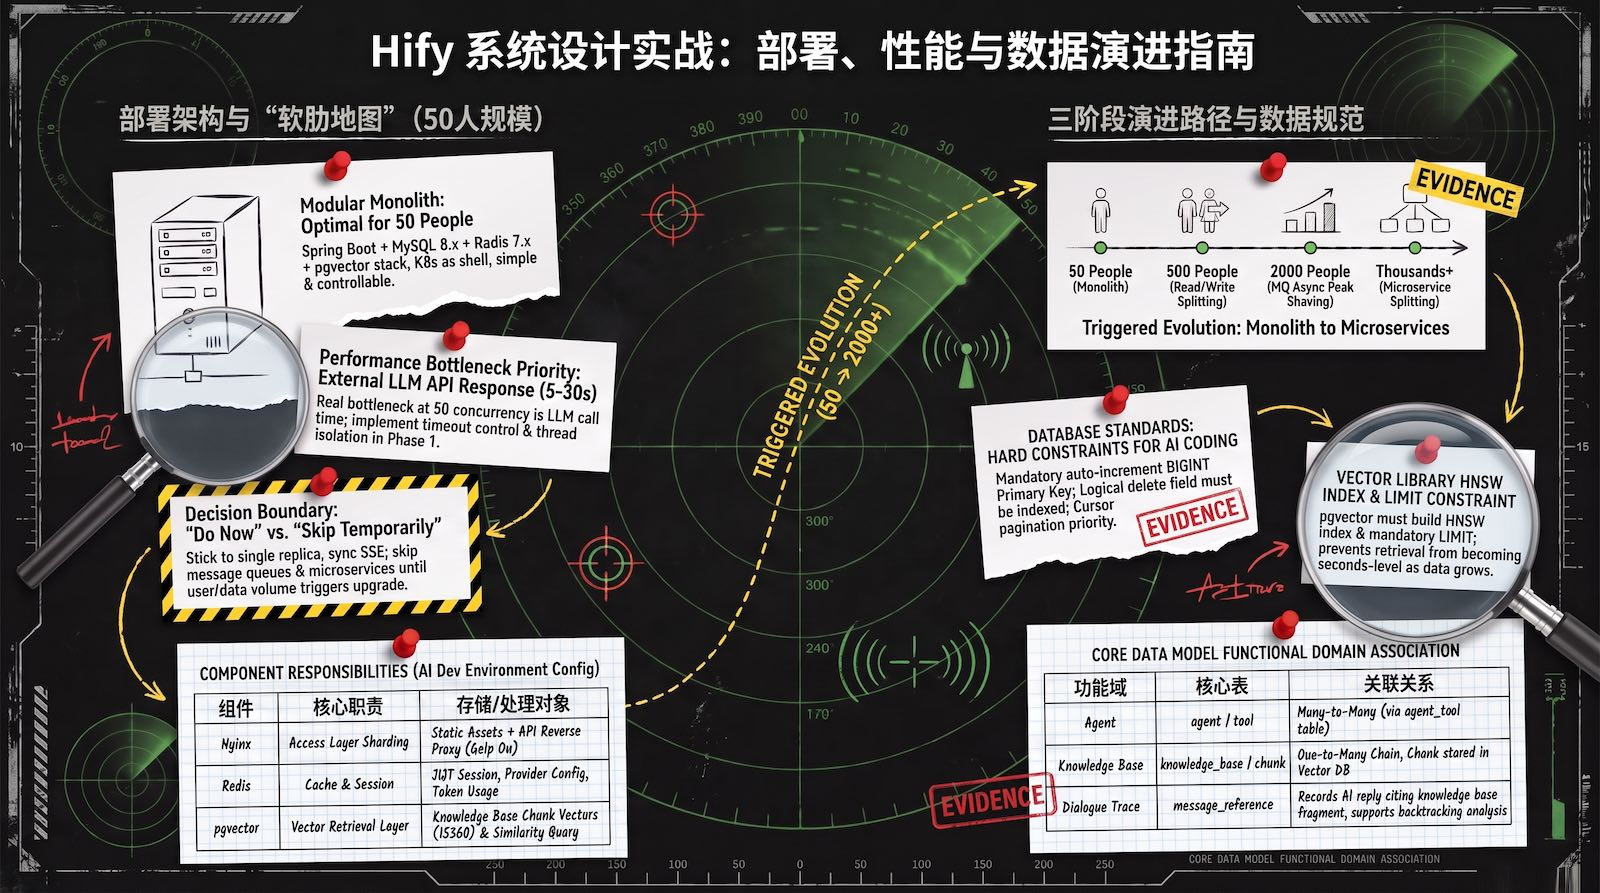
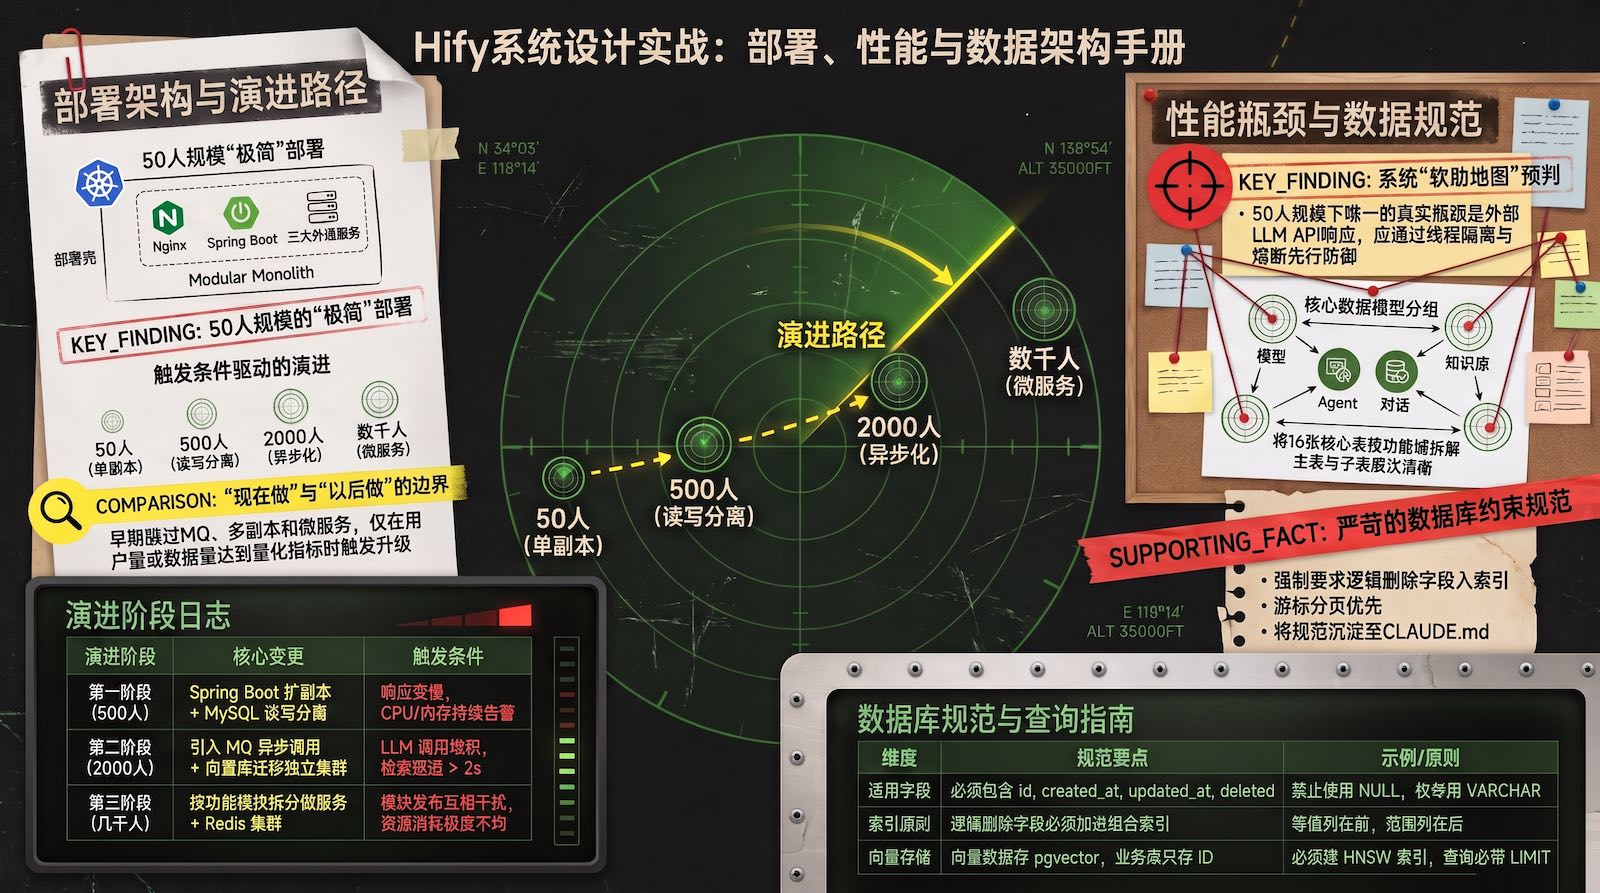
feat: up

diff --git a/_posts/2026-07-01-aicent-07-design-proc-recap.md b/_posts/2026-07-01-aicent-07-design-proc-recap.md
@@ -1,9 +1,9 @@
 ---
-title: AI编程方法 07：顶层设计 - 流程回顾
+title: AI编程方法 07：顶层设计 - 实操回顾
 author: fangkun119
 date: 2026-07-01 17:00:00 +0800
-categories: [AI编程, 方法论]
-tags: [AI编程, AI编程方法论]
+categories: [AI编程, AI编程方法]
+tags: [AI编程, AI编程方法]
 pin: false
 math: true
 mermaid: true

diff --git a/_posts/2026-07-09-aicent-summary-01-design-and-skeleton-code.md b/_posts/2026-07-09-aicent-summary-01-design-and-skeleton-code.md
@@ -2,8 +2,8 @@
 title: AI编程方法：核心摘要（上）- 项目顶层搭建
 author: fangkun119
 date: 2026-07-09 00:00:00 +0800
-categories: [AI编程, 方法论]
-tags: [AI编程, AI编程方法论]
+categories: [AI编程, AI编程方法]
+tags: [AI编程, AI编程方法]
 pin: false
 math: true
 mermaid: true
@@ -955,7 +955,7 @@ AI 不知道 GPT-4 一次响应要 10-20 秒，会按"普通 HTTP 调用"给 5s 
 
 **核心模式**：**咨询模式查漏 → 三档优先级 → 按依赖排序逐档验收 → 参数从需求推 → 三层隔离**。这套打法让你不仅搭好 Hify 基础组件，更积累一份可复用清单——三档优先级、每个组件解决什么问题、参数为什么这么设，你都心里有数。**下次开新项目，不管用不用 Claude Code，这套东西基本照搬。**
 
-### 3.4 端 UI 设计和基础组件
+### 3.4 前端 UI 设计和基础组件
 
 <img src="imgs/aicent-11-fe-base-ui/cover.jpg" style="display: block; width: 800px;" alt="替换文字">
 

diff --git a/_posts/2026-06-30-aicent-00-opening.md b/_posts/2026-06-30-aicent-00-opening.md
@@ -2,8 +2,8 @@
 title: AI编程方法 00：序言 - 用 AI 写简 Dify
 author: fangkun119
 date: 2026-06-30 18:00:00 +0800
-categories: [AI编程, 方法论]
-tags: [AI编程, AI编程方法论]
+categories: [AI编程, AI编程方法]
+tags: [AI编程, AI编程方法]
 pin: false
 math: true
 mermaid: true

diff --git a/_posts/2026-06-30-aicent-01-engr-and-claude.md b/_posts/2026-06-30-aicent-01-engr-and-claude.md
@@ -2,8 +2,8 @@
 title: AI编程方法 01：认知构建 - 你是架构师AI是你的工程团队
 author: fangkun119
 date: 2026-06-30 19:00:00 +0800
-categories: [AI编程, 方法论]
-tags: [AI编程, AI编程方法论]
+categories: [AI编程, AI编程方法]
+tags: [AI编程, AI编程方法]
 pin: false
 math: true
 mermaid: true

diff --git a/_posts/2026-06-30-aicent-02-sdd-mind-set.md b/_posts/2026-06-30-aicent-02-sdd-mind-set.md
@@ -2,8 +2,8 @@
 title: AI编程方法 02：认知构建 - SDD思想
 author: fangkun119
 date: 2026-06-30 20:00:00 +0800
-categories: [AI编程, 方法论]
-tags: [AI编程, AI编程方法论]
+categories: [AI编程, AI编程方法]
+tags: [AI编程, AI编程方法]
 pin: false
 math: true
 mermaid: true

diff --git a/_posts/2026-07-01-aicent-03-prod-define.md b/_posts/2026-07-01-aicent-03-prod-define.md
@@ -2,8 +2,8 @@
 title: AI编程方法 03：顶层设计 - 定义产品
 author: fangkun119
 date: 2026-07-01 13:00:00 +0800
-categories: [AI编程, 方法论]
-tags: [AI编程, AI编程方法论]
+categories: [AI编程, AI编程方法]
+tags: [AI编程, AI编程方法]
 pin: false
 math: true
 mermaid: true

diff --git a/_posts/2026-07-01-aicent-04-arch-code-organize.md b/_posts/2026-07-01-aicent-04-arch-code-organize.md
@@ -2,8 +2,8 @@
 title: AI编程方法 04：顶层设计 - 应用架构和代码组织
 author: fangkun119
 date: 2026-07-01 14:00:00 +0800
-categories: [AI编程, 方法论]
-tags: [AI编程, AI编程方法论]
+categories: [AI编程, AI编程方法]
+tags: [AI编程, AI编程方法]
 pin: false
 math: true
 mermaid: true

diff --git a/_posts/2026-07-01-aicent-05-performance-and-data-design.md b/_posts/2026-07-01-aicent-05-performance-and-data-design.md
@@ -2,8 +2,8 @@
 title: AI编程方法 05：顶层设计 - 部署性能与数据设计
 author: fangkun119
 date: 2026-07-01 15:00:00 +0800
-categories: [AI编程, 方法论]
-tags: [AI编程, AI编程方法论]
+categories: [AI编程, AI编程方法]
+tags: [AI编程, AI编程方法]
 pin: false
 math: true
 mermaid: true

diff --git a/_posts/2026-07-01-aicent-08-backend-foundation.md b/_posts/2026-07-01-aicent-08-backend-foundation.md
@@ -2,8 +2,8 @@
 title: AI编程方法 08：工程搭建 - 后端骨架和基础设施
 author: fangkun119
 date: 2026-07-01 18:00:00 +0800
-categories: [AI编程, 方法论]
-tags: [AI编程, AI编程方法论]
+categories: [AI编程, AI编程方法]
+tags: [AI编程, AI编程方法]
 pin: false
 math: true
 mermaid: true

diff --git a/_posts/2026-07-01-aicent-09-frontend-init.md b/_posts/2026-07-01-aicent-09-frontend-init.md
@@ -2,8 +2,8 @@
 title: AI编程方法 09：工程搭建 - 前端工程初始化
 author: fangkun119
 date: 2026-07-01 19:00:00 +0800
-categories: [AI编程, 方法论]
-tags: [AI编程, AI编程方法论]
+categories: [AI编程, AI编程方法]
+tags: [AI编程, AI编程方法]
 pin: false
 math: true
 mermaid: true

diff --git a/_posts/2026-07-01-aicent-10-be-business-infra.md b/_posts/2026-07-01-aicent-10-be-business-infra.md
@@ -2,8 +2,8 @@
 title: AI编程方法 10：工程搭建 - 后端业务基础设施
 author: fangkun119
 date: 2026-07-01 20:00:00 +0800
-categories: [AI编程, 方法论]
-tags: [AI编程, AI编程方法论]
+categories: [AI编程, AI编程方法]
+tags: [AI编程, AI编程方法]
 pin: false
 math: true
 mermaid: true